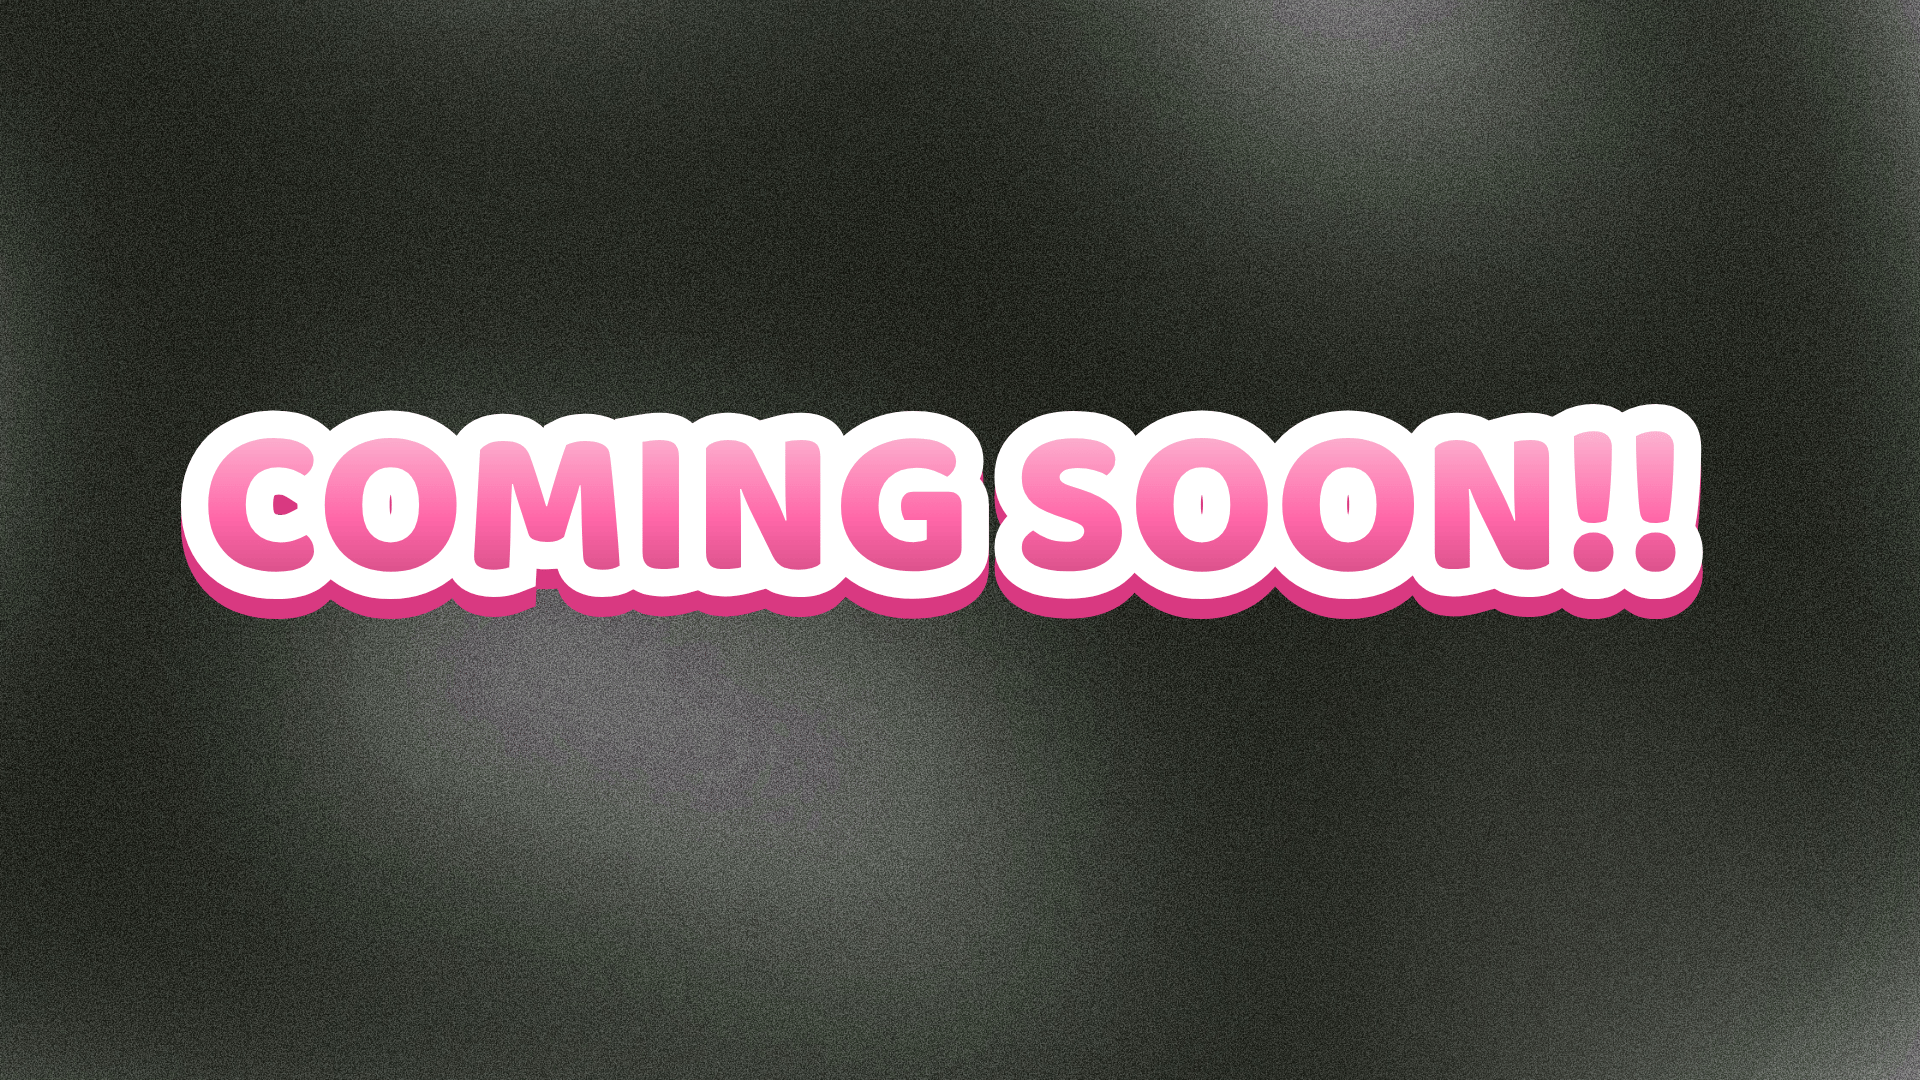
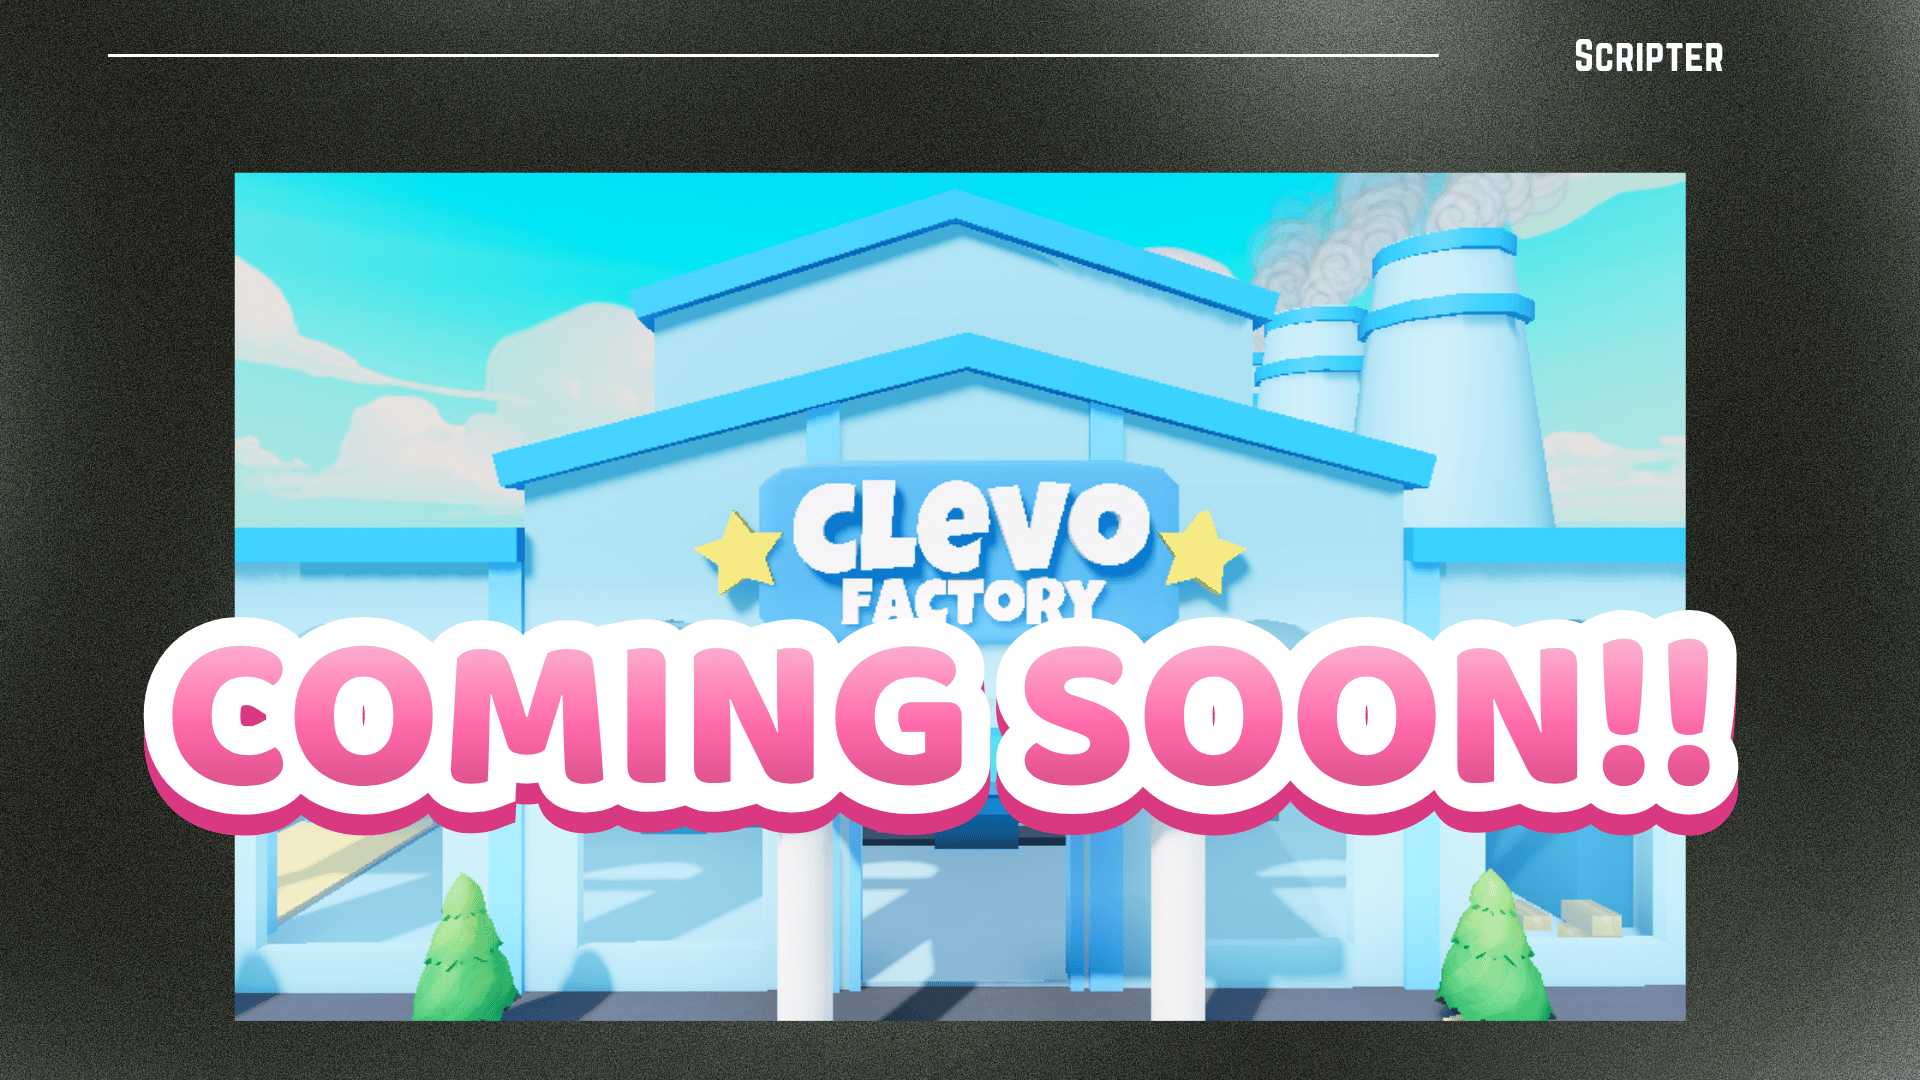
updet

diff --git a/desain_project.html b/desain_project.html
@@ -1182,7 +1182,23 @@
                     </div>
                 </div>
             </div>
-            <!-- 01 -->
+            <!-- RACE MOUNT HILANG V2 -->
+            <div class="card">
+                <img src="img/sd11.png" alt="Race Mount Hilang V2">
+                <div class="overlay">
+                    <div class="overlay-content">
+                        <div class="tag">
+                            2026
+                        </div>
+                        <h3>
+                            Race Mount Hilang V2
+                        </h3>
+                        <p>
+                            Graphic design project for a Roblox racing game.
+                        </p>
+                    </div>
+                </div>
+            </div>
 
             <!-- 24zM COMMUNITY -->
             <div class="card">
@@ -1485,6 +1501,17 @@
                 status: "Completed",
                 theme: "theme-blue",
                 images: ["img/redisen.png"]
+            },
+            {
+                title: "Race Mount Hilang V2",
+                tag: "Roblox Game Design",
+                desc: "Graphic design project for Race Mount Hilang V2, creating visual assets and promotional materials for a Roblox racing game.",
+                year: "2026",
+                role: "Graphic Designer",
+                tools: "Canva, Figma",
+                status: "Completed",
+                theme: "theme-blue",
+                images: ["img/sd11.png"]
             },
             {
                 title: "24zM Community",
